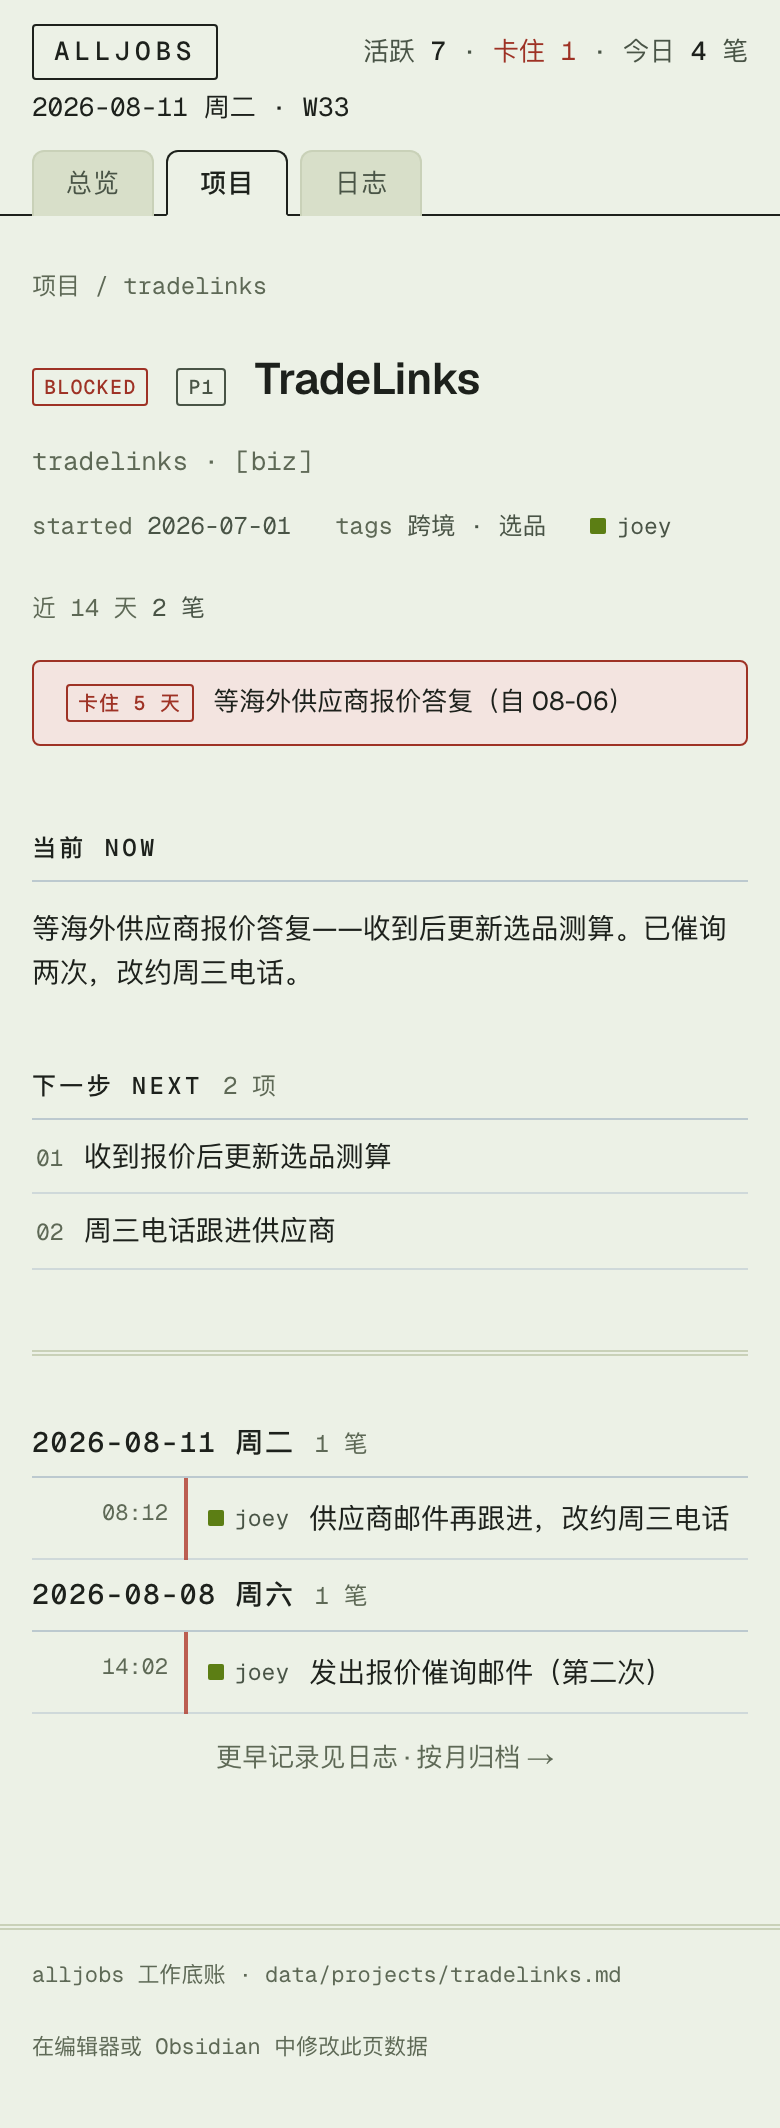
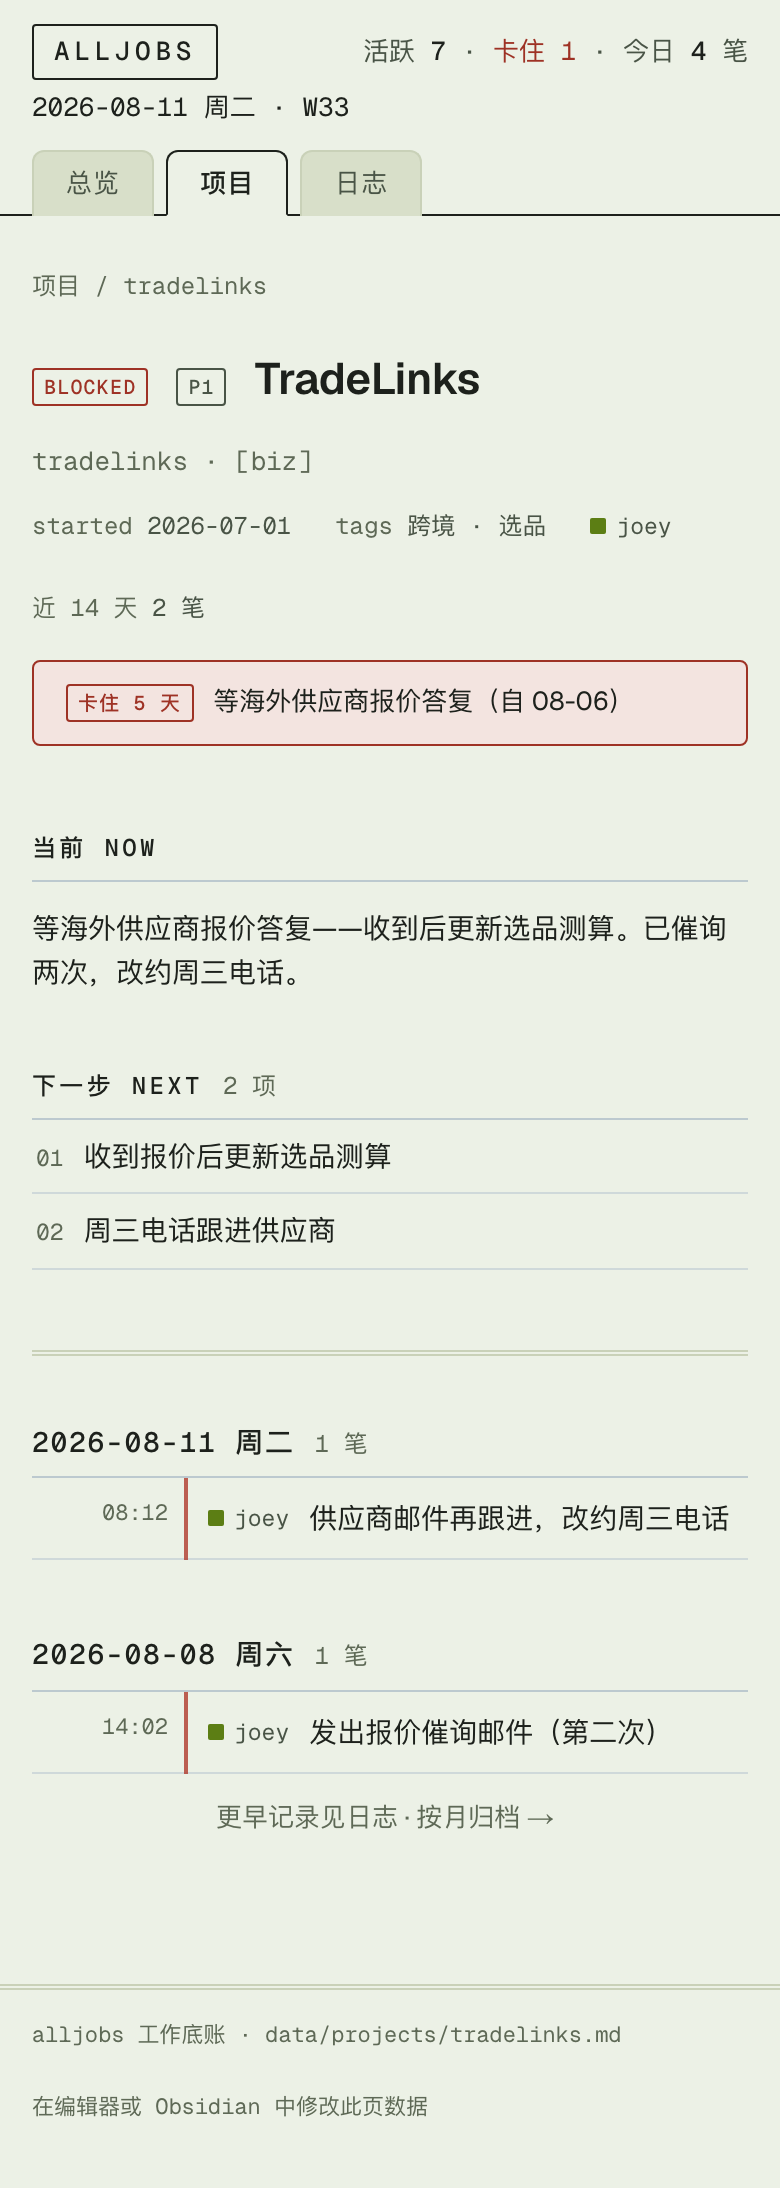
pact pages: checkpoint by kimi

diff --git a/app/views.test.tsx b/app/views.test.tsx
@@ -297,6 +297,20 @@ describe("项目详情 /projects/[slug]", () => {
     expect(html).toContain("DONE");
     expect(html).toContain("is-done");
   });
+
+  test("日组不被包裹：dayhead 与 sheet 平铺（mockup 30px 日间距）", () => {
+    // 同 /log：包裹 <div> 会让每个 dayhead 命中 :first-of-type，30px 日间距丢失
+    const data = ledger({
+      projects: [makeProject({ slug: "a" })],
+      entries: [
+        makeEntry({ slug: "a", date: "2026-08-11", file: "data/log/2026-08-11.md" }),
+        makeEntry({ slug: "a", date: "2026-08-10", file: "data/log/2026-08-10.md" }),
+      ],
+    });
+    const html = renderToStaticMarkup(<DetailView data={data} slug="a" now={NOW} />);
+    expect(html).not.toMatch(/<div><div class="section-head dayhead"/);
+    expect(html).toMatch(/<\/div><div class="section-head dayhead"/);
+  });
 });
 
 describe("slug 不存在", () => {
@@ -353,6 +367,15 @@ describe("日志 /log", () => {
     expect(html).not.toContain("远古一");
     expect(html).toContain("2026-06");
     expect(html).toContain("2 笔");
+  });
+
+  test("日组不被包裹：dayhead 与 sheet 是 main.ledger 的平铺兄弟（mockup 30px 日间距）", () => {
+    // mockup 里 dayhead/sheet 平铺在 main.ledger 下，.dayhead:first-of-type { margin-top: 0 }
+    // 只命中真正的第一个日头；若每个日组被 <div> 包裹，则每个 dayhead 都是各自 wrapper
+    // 的 first-of-type，30px 日间距全部丢失
+    const html = renderToStaticMarkup(<LogView data={seedLedger()} filters={{}} now={NOW} />);
+    expect(html).not.toMatch(/<div><div class="section-head dayhead"/);
+    expect(html).toMatch(/<\/div><div class="section-head dayhead"/);
   });
 
   test("空日不渲染；无记录给引导", () => {

diff --git a/app/log/log-view.tsx b/app/log/log-view.tsx
@@ -1,3 +1,4 @@
+import { Fragment } from "react";
 import Link from "next/link";
 import { mastheadCounts, weekdayZh } from "../../lib/data/derive";
 import type { LedgerData } from "../../lib/data/types";
@@ -140,7 +141,9 @@ export function LogView({
         )}
 
         {recent.map((g) => (
-          <div key={g.date}>
+          // Fragment：dayhead/sheet 须平铺在 main.ledger 下（同 mockup），
+          // 包裹 div 会让每个 dayhead 命中 :first-of-type，30px 日间距丢失
+          <Fragment key={g.date}>
             <SectionHead
               day
               title={`${g.date} ${weekdayZh(g.date)}${g.date === todayStr ? " · 今日" : ""}`}
@@ -151,7 +154,7 @@ export function LogView({
                 <EntryRow key={`${e.date}-${e.line}`} entry={e} />
               ))}
             </Sheet>
-          </div>
+          </Fragment>
         ))}
 
         {months.length > 0 && (

diff --git a/app/projects/[slug]/detail-view.tsx b/app/projects/[slug]/detail-view.tsx
@@ -1,3 +1,4 @@
+import { Fragment } from "react";
 import Link from "next/link";
 import {
   deriveProjects,
@@ -183,7 +184,9 @@ export function DetailView({
               </Sheet>
             ) : (
               days.map((g) => (
-                <div key={g.date}>
+                // Fragment：dayhead/sheet 须平铺（同 mockup），
+                // 包裹 div 会让每个 dayhead 命中 :first-of-type，30px 日间距丢失
+                <Fragment key={g.date}>
                   <SectionHead
                     day
                     title={`${g.date} ${weekdayZh(g.date)}`}
@@ -194,7 +197,7 @@ export function DetailView({
                       <EntryRow key={`${e.date}-${e.line}`} entry={e} showSlug={false} />
                     ))}
                   </Sheet>
-                </div>
+                </Fragment>
               ))
             )}
             <p className="empty-note">
